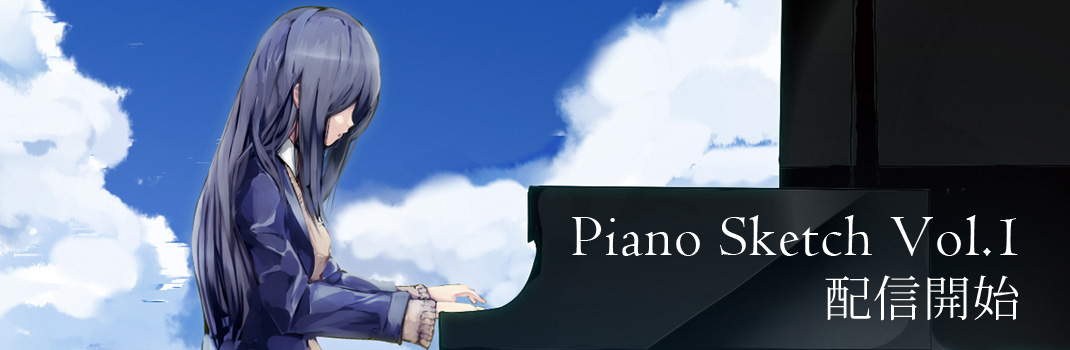
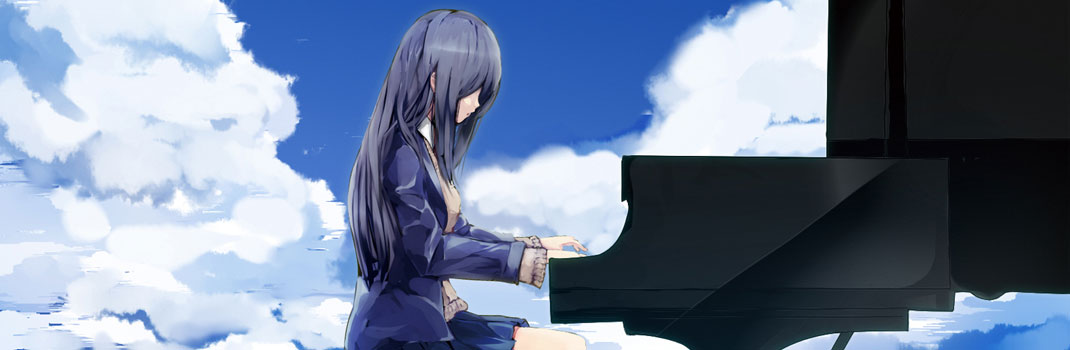
fix page

diff --git a/src/pages/index.js b/src/pages/index.js
@@ -70,7 +70,7 @@ export default function Home({ data, location }) {
 
       {/* ABOUT */}
       <h1><FontAwesomeIcon icon={faCircle} />ABOUT</h1>
-      <p>オリジナルピアノ曲を中心に作曲し、CDや楽譜の頒布、配信を行っているサークルです。</p>
+      <p>オリジナルピアノ曲を中心に作曲し、楽曲や楽譜の頒布、配信を行っているサークルです。</p>
       <p>Rallentando という音楽記号は、だんだん遅く、ゆっくりになる、という意味があります。</p>
       <p>忙しい毎日を過ごす中の、例えば寝る前に一息つきたいときや、休憩したいときなどにそっと寄り添えるような、そんな音楽を作りたいと思っています。</p>
       <Row style={{ marginTop: "40px", marginBottom: "40px" }}>

diff --git a/gatsby-config.js b/gatsby-config.js
@@ -8,7 +8,7 @@ module.exports = {
   /* Your site config here */
   siteMetadata: {
     title: `Rallentando`,
-    description: `オリジナル同人音楽サークル`,
+    description: `オリジナルピアノ曲を中心に作曲し、楽曲や楽譜の頒布、配信を行っているサークルです。`,
     lang: `ja`,
     siteUrl: `https://rallentando.net`,
     locale: `ja_JP`,

diff --git a/src/templates/news.js b/src/templates/news.js
@@ -5,6 +5,8 @@ import Layout from "../components/layout"
 import SEO from "../components/seo"
 import NewsCategory from "../components/newsCategory"
 
+import "./news.css"
+
 import { FontAwesomeIcon } from "@fortawesome/react-fontawesome"
 import { faCircle } from "@fortawesome/free-regular-svg-icons"
 import { faChevronLeft } from "@fortawesome/free-solid-svg-icons"

diff --git a/src/components/layout.css b/src/components/layout.css
@@ -142,3 +142,7 @@ svg.svg-inline--fa {
 .blog-post {
   margin: 60px 0;
 }
+
+.carousel-caption {
+  text-shadow: 0 0 10px black;
+}

diff --git a/src/templates/news.css b/src/templates/news.css
@@ -1,0 +1,4 @@
+.blog-post-content p {
+  line-height: 1.7em;
+  margin-bottom: 2em;
+}

diff --git a/src/markdown-pages/news/5-piano-sketch-vol-1/content.md b/src/markdown-pages/news/5-piano-sketch-vol-1/content.md
@@ -1,17 +1,17 @@
 ---
-date: "2021-01-01"
+date: "2021-01-19"
 category: "RELEASE"
-title: "「Piano Sketch Vol.1」各種音楽サイトにて配信開始！"
+title: "「Piano Sketch Vol.1」1月23日より各種音楽サイトにて配信決定！"
 ---
 
-2016年にコミックマーケット90で頒布しました「Piano Sketch Vol.1」につきまして、  
-各種音楽配信サイトにてダウンロード販売、ストリーミング配信が開始されました！
+2016年8月にコミックマーケット90で頒布しました「Piano Sketch Vol.1」につきまして、  
+1月23日より各種音楽配信サイトにてダウンロード販売、ストリーミング配信が開始されます！
 
-販売価格は、1曲○○円、アルバム全体では○○円です。<small>（指定できる最低価格でした）</small>
+ダウンロード販売については、指定できる価格の関係により、イベント頒布価格よりも高い価格となっていることをご了承ください。
 
 iTunes Store, LINE MUSIC などのダウンロード販売サービスをはじめ、  
-Spotify, Apple Music, Amazon Music Unlimited, YouTube Music などのストリーミング配信サービスでも配信をしています。
+Spotify, Apple Music, Amazon Music Unlimited, YouTube Music などのストリーミング配信サービスでも配信されます。
 
-曲目や視聴などは [こちら](/discography/piano-sketch-vol1) へ。
+曲目や視聴、配信サイトへのリンクは [コチラ](/discography/piano-sketch-vol1) へ。
 
 皆様、よろしくお願いいたします！

diff --git a/src/markdown-pages/discography/piano-sketch-vol1/content.md b/src/markdown-pages/discography/piano-sketch-vol1/content.md
@@ -4,9 +4,9 @@ eyecatch: "./cover.jpg"
 youtube: "VlkaBEF6WZ4"
 ---
 
-2016年8月コミックマーケット89にて頒布
+2016年8月コミックマーケット90にて頒布
 
-オリジナルピアノ曲集10曲を収録
+オリジナルピアノ曲10曲を収録
 
 <div class="music-detail">
   <ul>
@@ -25,10 +25,7 @@ youtube: "VlkaBEF6WZ4"
 
 ## 音楽配信サイト
 
-### すべて
-準備中
-
-### ダウンロード
+### ダウンロード販売
 
 ▼ iTunes Store  
 準備中
@@ -48,4 +45,7 @@ youtube: "VlkaBEF6WZ4"
 準備中
 
 ▼ Amazon Music Unlimited  
+準備中
+
+### 上記以外も含むすべて
 準備中

diff --git a/src/markdown-pages/news/3-rallentando/content.md b/src/markdown-pages/news/3-rallentando/content.md
@@ -1,5 +1,5 @@
 ---
 date: "2018-10-07"
 category: "INFO"
-title: "サークル名が Euphoria Time から Rallentando へと変わりました。今後もよろしくお願いいたします"
+title: "サークル名が Euphoria Time から Rallentando へと変わりました。今後もよろしくお願いいたします。"
 ---

diff --git a/src/markdown-pages/index-banner/piano-sketch-vol1/content.md b/src/markdown-pages/index-banner/piano-sketch-vol1/content.md
@@ -1,8 +1,8 @@
 ---
 url: "/discography/piano-sketch-vol1"
 eyecatch: "./eyecatch.jpg"
-captionTitle: ""
-captionDesc: ""
-date: "2021-01-01"
+captionTitle: "Piano Sketch Vol.1"
+captionDesc: "1月23日 各種音楽サイトにて配信開始"
+date: "2021-01-19"
 ---
 

diff --git a/src/markdown-pages/news/4-hp/content.md b/src/markdown-pages/news/4-hp/content.md
@@ -1,5 +1,5 @@
 ---
 date: "2021-01-19"
 category: "INFO"
-title: "ホームページをリニューアルしました"
+title: "ホームページをリニューアルしました。"
 ---
